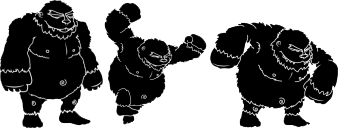
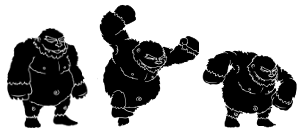
HD - Rescaled player spritesheet.

diff --git a/Game/player.js b/Game/player.js
@@ -25,7 +25,7 @@ function Player(damage, scoreHandler)
   this.m_damage = damage;
   this.m_scoreHandler = scoreHandler;
 
-  this.animations = new AnimatedSprite("images/player_animation.png", null, 103, 128, 3);
+  this.animations = new AnimatedSprite("images/player_animation.png", null, 100, 128, 3);
 
   this.m_type = ObjectType.Player;
  

diff --git a/Game/level.js b/Game/level.js
@@ -23,9 +23,9 @@ function Level()
   var m_damage = new DamageHandler();
   
   var m_ui = new UI();
-  
+ 
   m_character = new Player(m_damage, m_scoreHandler);
-  m_character.SetDimensions(103, 128);
+  m_character.SetDimensions(100, 128);
   m_character.EnablePhysics(m_physics, false, true);
   m_character.Move(0, 472);
 
